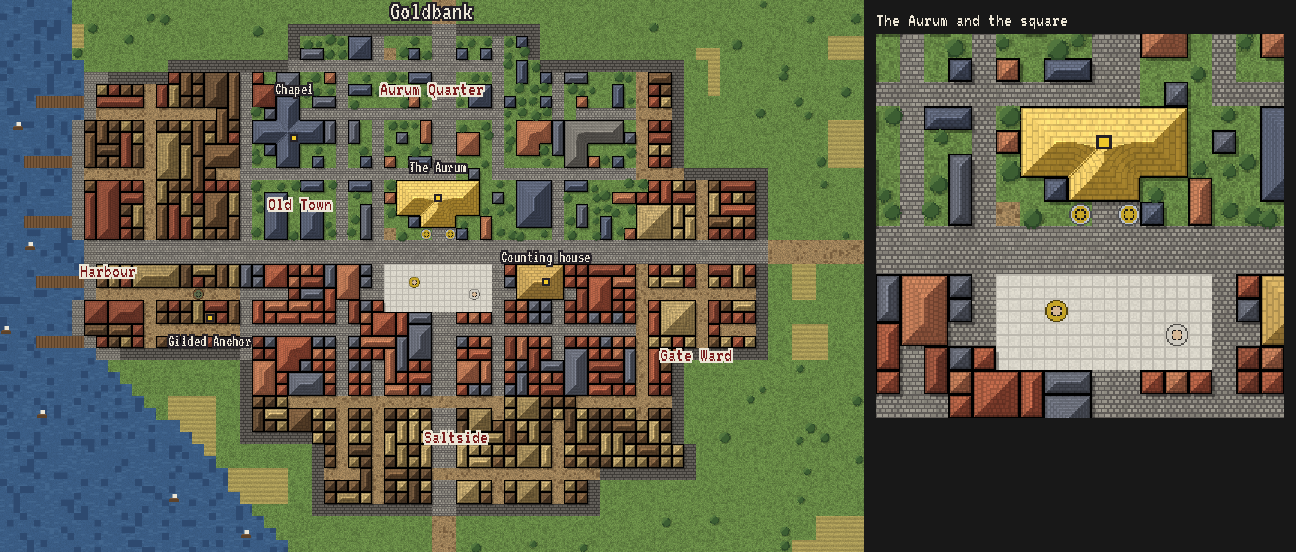
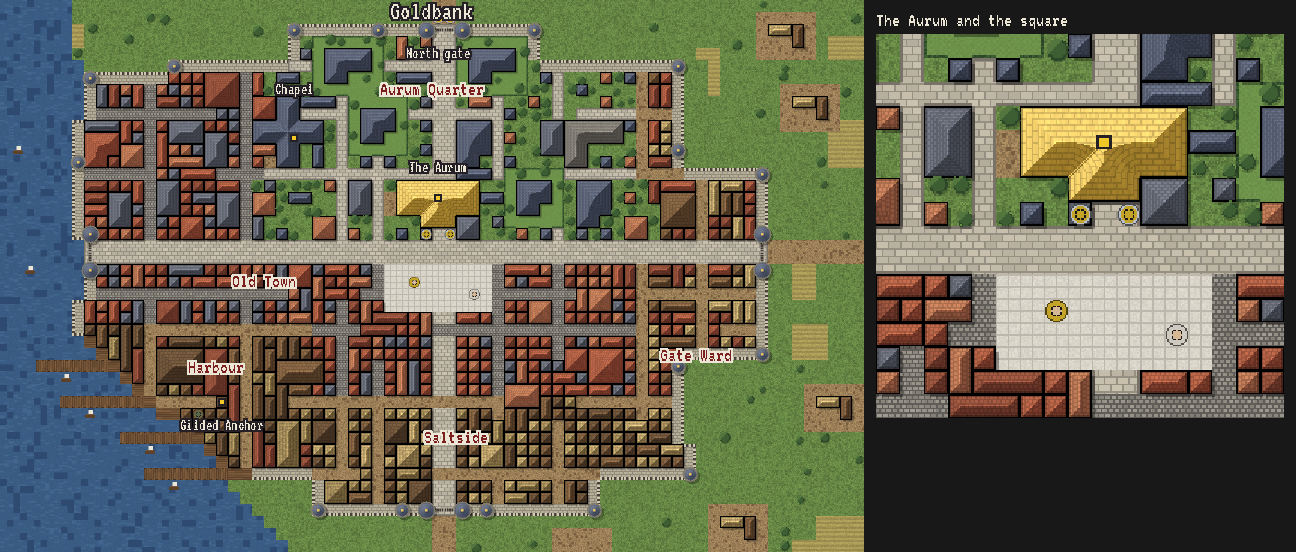
Design: Goldbank paving, crenellated walls and gatehouses, timber docks in the bay, mansions, farmsteads
Claude-Session: https://claude.ai/code/session_019BrViayk1gv58S7Cf5V4Zu

diff --git a/design/prototype/city_cells.py b/design/prototype/city_cells.py
@@ -20,25 +20,25 @@ def hh(x, y, s):
 
 
 # ---- the cell plan ----
-WATER, GRASS, FIELD, ROAD, LANE, DIRT, QUAY, PIER, PLAZA, GARDEN, WALL, GATE, BUILD = range(13)
+WATER, GRASS, FIELD, ROAD, LANE, DIRT, QUAY, PIER, PLAZA, GARDEN, WALL, GATE, BUILD, ESTATE = range(14)
 coast = np.array([6 + (1 if (y // 5) % 3 == 1 else 0) + max(0, y - 27) for y in range(R)])
 g = np.full((R, C), GRASS)
 for y in range(R):
     g[y, : coast[y]] = WATER
 foot = np.zeros((R, C), bool)
-for x0, y0, x1, y1 in [(14, 5, 57, 37), (24, 2, 45, 5), (57, 14, 64, 30), (26, 37, 50, 43), (40, 37, 58, 40), (0, 6, 14, 30)]:
+for x0, y0, x1, y1 in [(14, 5, 57, 37), (24, 2, 45, 5), (57, 14, 64, 30), (26, 37, 50, 43), (40, 37, 58, 40), (0, 6, 14, 28), (0, 28, 26, 40)]:
     foot[y0:y1, x0:x1] = True
 for y in range(R):
     foot[y, : coast[y]] = False
-foot[30:37, 14:20] = False
-foot[37:, :26] = False
 
 
 def district(x, y):
     if 22 <= x <= 52 and 2 <= y <= 19:
         return "rich"
-    if x < 20:
+    if y >= 27 and x < 26:
         return "harbour"
+    if x < 14:
+        return "old"
     if y > 32:
         return "poor"
     if x > 52:
@@ -69,7 +69,7 @@ for y, w in [(MAINY, 2), (9, 1), (14, 1), (27, 1), (33, 1), (39, 1), (5, 1), (24
                     g[yy, x] = ROAD if w == 2 else LANE
 edge = foot & ~ndimage.binary_erosion(foot)
 for y, x in zip(*np.nonzero(edge)):
-    if x <= coast[y] + 1:
+    if x <= coast[y] + 1 and y >= 28:
         g[y, x] = QUAY
     else:
         g[y, x] = GATE if (x in (MAINX, MAINX + 1) or y in (MAINY, MAINY + 1)) else WALL
@@ -77,8 +77,8 @@ for y in range(R):
     for x in range(C):
         if not foot[y, x] and g[y, x] in (GRASS, FIELD) and ((x in (MAINX, MAINX + 1) and abs(y - 22) > 18) or (y in (MAINY, MAINY + 1) and x > 60)):
             g[y, x] = DIRT
-for py in range(8, 30, 5):
-    for k in range(1, 5):
+for py in range(30, 41, 3):  # long timber piers into the bay
+    for k in range(1, 7 + (py % 2)):
         if coast[py] - k >= 0:
             g[py, coast[py] - k] = PIER
 
@@ -107,14 +107,30 @@ def box(x0, y0, x1, y1):
 for x, y in box(32, 22, 41, 26):
     g[y, x] = PLAZA
 build(box(33, 15, 40, 18) + box(35, 18, 38, 19), "gold")  # the Aurum, with a porch on the square
-build(box(43, 22, 47, 25), "goldtrim")  # counting house
 build(box(47, 10, 52, 12) + box(47, 12, 49, 14), "stone")  # barracks
 build(box(21, 10, 27, 12) + box(23, 8, 25, 14), "slate")  # chapel
+
+for mx, my, mw, mh in [(27, 4, 4, 2), (39, 4, 4, 2), (43, 15, 3, 2), (30, 9, 3, 2)]:  # mansions in walled gardens
+    house = box(mx, my, mx + mw, my + mh) + box(mx, my + mh, mx + 2, my + mh + 1)
+    grounds = box(mx - 1, my - 1, mx + mw + 1, my + mh + 2)
+    if all(0 <= a_ < C and 0 <= b_ < R and g[b_, a_] in (DIRT, LANE) for a_, b_ in grounds):
+        for a_, b_ in grounds:
+            g[b_, a_] = ESTATE
+        build(house, "slate")
+# farmsteads outside the walls
+for fx, fy in [(66, 8), (68, 33), (60, 43), (47, 45), (2, 2), (64, 2)]:
+    for a_, b_ in box(fx - 1, fy - 1, fx + 4, fy + 3):
+        if 0 <= a_ < C and 0 <= b_ < R and g[b_, a_] in (GRASS, FIELD):
+            g[b_, a_] = DIRT
+    if all(0 <= a_ < C and 0 <= b_ < R and g[b_, a_] == DIRT for a_, b_ in box(fx, fy, fx + 3, fy + 2)):
+        build(box(fx, fy, fx + 2, fy + 1), "thatch")
+        build(box(fx + 2, fy, fx + 3, fy + 2), "wood")
 
 SIZE = {"rich": (2, 4), "old": (1, 3), "harbour": (2, 5), "poor": (1, 2), "gate": (1, 3)}
 ROOF = {"rich": ["slate", "slate", "slate2", "clay3"], "old": ["clay", "clay", "clay3", "clay2", "slate2"], "harbour": ["wood", "wood2", "clay2", "thatch2"],
         "poor": ["wood", "wood2", "thatch", "thatch2"], "gate": ["clay2", "thatch", "wood", "clay"]}
 cells = [(x, y) for y in range(R) for x in range(C) if g[y, x] == DIRT and foot[y, x]]
+SIZE["old"] = (1, 3)
 r.shuffle(cells)
 for x, y in cells:
     if g[y, x] != DIRT:
@@ -146,7 +162,7 @@ for x, y in cells:
                 g[b_, a_] = GARDEN
 for y in range(R):
     for x in range(C):
-        if g[y, x] == DIRT and foot[y, x] and r.random() < (0.5 if district(x, y) in ("rich", "old") else 0.15):
+        if g[y, x] == DIRT and foot[y, x] and r.random() < (0.45 if district(x, y) == "rich" else 0.05):
             g[y, x] = GARDEN
 
 # ---- ground ----
@@ -159,7 +175,9 @@ distr = np.empty((R, C), object)
 for y in range(R):
     for x in range(C):
         distr[y, x] = district(x, y)
-poor_cell = np.repeat(np.repeat(np.vectorize(lambda d: d in ("poor", "gate", "harbour"))(distr), T, 0), T, 1)
+up = lambda m: np.repeat(np.repeat(m, T, 0), T, 1)
+poor_cell = up(np.vectorize(lambda d: d in ("poor", "gate", "harbour"))(distr))
+rich_cell = up(np.vectorize(lambda d: d == "rich")(distr))
 img = np.zeros((H_, W_, 3), float)
 
 
@@ -167,10 +185,22 @@ def put_mask(m, base, var=0.12, noise=N1):
     img[m] = np.array(base)[None, :] * (1 - var + noise[m][:, None] * var * 2)
 
 
-grass = (cellk == GRASS) | (cellk == GARDEN)
+grass = (cellk == GRASS) | (cellk == GARDEN) | (cellk == ESTATE)
 put_mask(grass, P["g2"], 0.14)
 img[grass & (N2 < 0.3)] *= 0.9
 img[grass & (N1 > 0.985)] = P["g4"]
+est = cellk == ESTATE
+img[est] = np.array((112, 150, 76))[None, :] * (0.95 + N1[est][:, None] * 0.08)
+img[est & ((XX // 2 + YY // 2) % 2 == 0)] *= 0.97
+estc = g == ESTATE
+hedge = np.zeros_like(est)
+for dx, dy, sl in [(1, 0, (slice(None), slice(T - 2, T))), (-1, 0, (slice(None), slice(0, 2))), (0, 1, (slice(T - 2, T), slice(None))), (0, -1, (slice(0, 2), slice(None)))]:
+    nb = np.roll(np.roll(estc | (g == BUILD), -dy, 0), -dx, 1)
+    for y, x in zip(*np.nonzero(estc & ~nb)):
+        cell = np.zeros((T, T), bool)
+        cell[sl] = True
+        hedge[y * T : (y + 1) * T, x * T : (x + 1) * T] |= cell
+img[hedge] = np.where((N1[hedge] > 0.5)[:, None], np.array(P["tree"]), np.array(P["tree2"]))
 fld = cellk == FIELD
 put_mask(fld, P["field1"], 0.08)
 img[fld & ((YY // 3) % 2 == 0)] *= 0.88
@@ -184,22 +214,53 @@ img[dirt & (N2 > 0.9)] = P["dirt2"]
 # cobbles: irregular stones with dark joints
 stone_id = (XX // 4 + ((YY // 3) % 2) * 2) * 7 + YY // 3
 joint = ((YY % 3) == 0) | (((XX + ((YY // 3) % 2) * 2) % 4) == 0)
-cob = ((cellk == ROAD) | (cellk == GATE) | ((cellk == LANE) & ~poor_cell))
+slab = (cellk == ROAD) | (cellk == GATE) | ((cellk == LANE) & rich_cell)
+cob = (cellk == LANE) & ~poor_cell & ~rich_cell
 sv = hh(stone_id, 1, 11)
 img[cob] = np.array(P["cob1"])[None, :] * (0.86 + sv[cob][:, None] * 0.22)
 img[cob & joint] = np.array(P["gap"]) * 1.1
+sid_ = hh((XX + ((YY // 5) % 2) * 4) // 8, YY // 5, 21)
+img[slab] = np.array((196, 188, 170))[None, :] * (0.92 + sid_[slab][:, None] * 0.12)
+img[slab & (((YY % 5) == 0) | (((XX + ((YY // 5) % 2) * 4) % 8) == 0))] = (150, 144, 130)
+for y in range(R):  # kerbs where paving meets anything else
+    for x in range(C):
+        if g[y, x] in (ROAD, GATE) or (g[y, x] == LANE and distr[y, x] == "rich"):
+            for dx, dy in ((1, 0), (-1, 0), (0, 1), (0, -1)):
+                nx, ny = x + dx, y + dy
+                if 0 <= nx < C and 0 <= ny < R and g[ny, nx] not in (ROAD, GATE, LANE, PLAZA):
+                    X0_, Y0_ = x * T, y * T
+                    if dx == 1: img[Y0_ : Y0_ + T, X0_ + T - 2 : X0_ + T] = (120, 114, 104)
+                    if dx == -1: img[Y0_ : Y0_ + T, X0_ : X0_ + 2] = (120, 114, 104)
+                    if dy == 1: img[Y0_ + T - 2 : Y0_ + T, X0_ : X0_ + T] = (120, 114, 104)
+                    if dy == -1: img[Y0_ : Y0_ + 2, X0_ : X0_ + T] = (120, 114, 104)
 plaza = cellk == PLAZA
 img[plaza] = np.array((222, 218, 206))[None, :] * (0.94 + N1[plaza][:, None] * 0.08)
 img[plaza & (((XX % 8) == 0) | ((YY % 8) == 0))] = (188, 184, 174)
 quay = cellk == QUAY
-img[quay] = np.array(P["stone3"])[None, :] * (0.9 + N1[quay][:, None] * 0.12)
-img[quay & joint] = P["stone2"]
+img[quay] = np.array(P["wood"])[None, :] * (0.9 + hh(XX // 12, YY // 3, 23)[quay][:, None] * 0.2)
+img[quay & (YY % 3 == 0)] = P["wood2"]
 pier = cellk == PIER
-img[pier] = P["wood"]
-img[pier & (XX % 4 == 0)] = P["wood2"]
+img[pier] = np.array(P["wood"])[None, :] * (0.88 + hh(XX // 3, YY // 10, 29)[pier][:, None] * 0.24)
+img[pier & (XX % 3 == 0)] = P["wood2"]
+img[pier & (((YY % T) < 1) | ((YY % T) > 14)) & (XX % 8 < 2)] = (52, 38, 26)
+WALLC = (186, 178, 156)
 wall = (cellk == WALL)
-img[wall] = np.array(P["stone2"])[None, :] * (0.92 + N1[wall][:, None] * 0.12)
-img[wall & ((YY % 4 == 0) | ((XX + (YY // 4 % 2) * 3) % 6 == 0))] = shade(P["stone2"], 0.62)
+img[wall] = np.array(WALLC)[None, :] * (0.93 + N1[wall][:, None] * 0.1)
+img[wall & ((YY % 4 == 0) | ((XX + (YY // 4 % 2) * 3) % 6 == 0))] = shade(WALLC, 0.78)
+outside = ~foot
+for y, x in zip(*np.nonzero(g == WALL)):  # crenellations on the outer face
+    X0_, Y0_ = x * T, y * T
+    for dx, dy in ((1, 0), (-1, 0), (0, 1), (0, -1)):
+        nx, ny = x + dx, y + dy
+        if not (0 <= nx < C and 0 <= ny < R) or not outside[ny, nx]:
+            continue
+        for k in range(T):
+            merlon = (k // 3) % 2 == 0
+            c = shade(WALLC, 1.12) if merlon else (70, 66, 60)
+            if dx == 1: img[Y0_ + k, X0_ + T - 4 : X0_ + T] = c
+            if dx == -1: img[Y0_ + k, X0_ : X0_ + 4] = c
+            if dy == 1: img[Y0_ + T - 4 : Y0_ + T, X0_ + k] = c
+            if dy == -1: img[Y0_ : Y0_ + 4, X0_ + k] = c
 
 # ---- roofs: hipped from above, lit from the north-west ----
 PAL = {
@@ -267,7 +328,7 @@ img[shadow & ~roofed & ~wat] *= 0.66
 # trees in gardens and the odd one outside
 for y in range(R):
     for x in range(C):
-        if g[y, x] == GARDEN and hh(x, y, 4) > 0.4 or (g[y, x] == GRASS and not near[y, x] and hh(x, y, 6) > 0.93):
+        if g[y, x] == GARDEN and hh(x, y, 4) > 0.4 or g[y, x] == ESTATE and hh(x, y, 4) > 0.75 or (g[y, x] == GRASS and not near[y, x] and hh(x, y, 6) > 0.93):
             cx, cy = x * T + 4 + int(hh(x, y, 8) * 8), y * T + 4 + int(hh(x, y, 9) * 8)
             rad = 5 + hh(x, y, 10) * 3
             for j in range(-9, 10):
@@ -280,12 +341,75 @@ for y in range(R):
                         elif dd < rad + 1 and not roofed[Y, X] and i + j > 2:
                             img[Y, X] *= 0.8
 
-for sx, sy in [(1, 10), (2, 20), (3, 34), (14, 41), (20, 44), (0, 27)]:
+for sx, sy in [(int(coast[py]) - 4 - (py % 2), py + 1) for py in range(30, 41, 3)] + [(1, 12), (2, 22)]:
     if g[sy, sx] == WATER:
         X, Y = sx * T, sy * T
         img[Y + 9 : Y + 13, X + 1 : X + 15] = P["wood2"]
         img[Y + 8, X + 3 : X + 13] = P["wood"]
         img[Y + 3 : Y + 8, X + 6 : X + 12] = (236, 230, 214)
+
+
+def tower(cx, cy, rad, roofc=((70, 78, 98), (110, 118, 138))):
+    for j in range(-rad - 4, rad + 5):
+        for i in range(-rad - 4, rad + 5):
+            X, Y = cx + i, cy + j
+            if not (0 <= X < W_ and 0 <= Y < H_):
+                continue
+            d = np.hypot(i, j)
+            if d <= rad:
+                if d > rad - 2:
+                    c = shade(WALLC, 0.7)
+                else:
+                    lit = (i * LX + j * LY) / (d + 1e-6)
+                    c = np.array(roofc[0]) + (np.array(roofc[1]) - np.array(roofc[0])) * (0.5 + lit * 0.6)
+                    if int(d) % 3 == 0:
+                        c = c * 0.88
+                    if d < 1.6:
+                        c = (232, 196, 96)
+                img[Y, X] = c
+            elif np.hypot(i - 3, j - 3) <= rad and not roofed[Y, X]:
+                img[Y, X] *= 0.7
+
+
+walls = list(zip(*np.nonzero(g == WALL)))
+tw = []
+isw = lambda x, y: 0 <= x < C and 0 <= y < R and g[y, x] in (WALL, GATE)
+for y, x in walls:  # corners first, then one every few cells
+    if (isw(x + 1, y) or isw(x - 1, y)) and (isw(x, y + 1) or isw(x, y - 1)):
+        tw.append((x, y))
+for y, x in walls:
+    if all(max(abs(x - a), abs(y - b)) >= 7 for a, b in tw):
+        tw.append((x, y))
+gates = ndimage.label(g == GATE)[0]
+gh = []
+for k in range(1, gates.max() + 1):
+    ys, xs = np.nonzero(gates == k)
+    horiz = len(set(ys)) == 1
+    if horiz:
+        gh += [(xs.min() - 1, ys[0]), (xs.max() + 1, ys[0])]
+    else:
+        gh += [(xs[0], ys.min() - 1), (xs[0], ys.max() + 1)]
+    for y, x in zip(ys, xs):  # the gateway: a raised portcullis and doors swung back
+        X0_, Y0_ = x * T, y * T
+        if horiz:
+            img[Y0_ + 6 : Y0_ + 10, X0_ : X0_ + T] = (64, 58, 52)
+            img[Y0_ + 6 : Y0_ + 10, X0_ : X0_ + T : 3] = (150, 144, 136)
+        else:
+            img[Y0_ : Y0_ + T, X0_ + 6 : X0_ + 10] = (64, 58, 52)
+            img[Y0_ : Y0_ + T : 3, X0_ + 6 : X0_ + 10] = (150, 144, 136)
+    if horiz:
+        for x, side in ((xs.min(), 0), (xs.max(), 1)):
+            X0_ = x * T + (0 if side == 0 else T - 3)
+            img[ys[0] * T + 10 : ys[0] * T + 16, X0_ : X0_ + 3] = P["wood"]
+    else:
+        for y, side in ((ys.min(), 0), (ys.max(), 1)):
+            Y0_ = y * T + (0 if side == 0 else T - 3)
+            img[Y0_ : Y0_ + 3, xs[0] * T + 10 : xs[0] * T + 16] = P["wood"]
+tw = [t for t in tw if all(max(abs(t[0] - a), abs(t[1] - b)) > 1 for a, b in gh)]
+for x, y in tw:
+    tower(x * T + 8, y * T + 8, 10)
+for x, y in gh:
+    tower(x * T + 8, y * T + 8, 12)
 
 
 def token(cx, cy, ring, body, arm=None):
@@ -300,9 +424,9 @@ def token(cx, cy, ring, body, arm=None):
 
 GR = (196, 164, 40)
 for (x, y), (ring, body, arm) in {(35, 19): (GR, GR, (186, 192, 202)), (37, 19): (GR, GR, (186, 192, 202)), (34, 23): (GR, (214, 184, 150), None),
-                                  (39, 24): ((206, 202, 192), (214, 184, 150), None), (16, 24): ((92, 104, 72), (92, 104, 72), (118, 80, 48))}.items():
+                                  (39, 24): ((206, 202, 192), (214, 184, 150), None), (16, 34): ((92, 104, 72), (92, 104, 72), (118, 80, 48)), (36, 1): (GR, GR, (186, 192, 202)), (37, 1): (GR, GR, (186, 192, 202))}.items():
     token(x * T + 8, y * T + 8, ring, body, arm)
-for x, y in [(36, 16), (45, 23), (24, 11), (17, 26)]:
+for x, y in [(36, 16), (24, 11), (18, 33)]:
     X, Y = x * T, y * T
     img[Y + 3 : Y + 13, X + 3 : X + 13] = P["ink"]
     img[Y + 5 : Y + 11, X + 5 : X + 11] = (240, 200, 40)
@@ -326,10 +450,10 @@ def tag(text, x, y, size, fill, edge):
 
 
 S12 = 12
-for t, x, y in [("Aurum Quarter", 36, 7.4), ("Old Town", 25, 17), ("Harbour", 9, 22.6), ("Saltside", 38, 36.4), ("Gate Ward", 58, 29.6)]:
+for t, x, y in [("Aurum Quarter", 36, 7.4), ("Old Town", 22, 23.4), ("Harbour", 18, 30.6), ("Saltside", 38, 36.4), ("Gate Ward", 58, 29.6)]:
     tag(t, x * S12, y * S12, 20, (122, 30, 30), (236, 230, 214))
 tag("Goldbank", 36 * S12, 0.9 * S12, 26, (236, 230, 214), (36, 32, 38))
-for t, x, y in [("The Aurum", 36.5, 13.9), ("Counting house", 45.5, 21.4), ("Chapel", 24.5, 7.4), ("Gilded Anchor", 17.5, 28.4)]:
+for t, x, y in [("The Aurum", 36.5, 13.9), ("Chapel", 24.5, 7.4), ("Gilded Anchor", 18.5, 35.4), ("North gate", 36.5, 4.4)]:
     tag(t, x * S12, y * S12, 16, (236, 230, 214), (36, 32, 38))
 dr.text((small.width + 12, 10), "The Aurum and the square", font=ImageFont.truetype(FONTS["vt"], 20), fill=(236, 230, 214))
 out.save(os.path.join(OUT, "13-goldbank-cells.png"))
